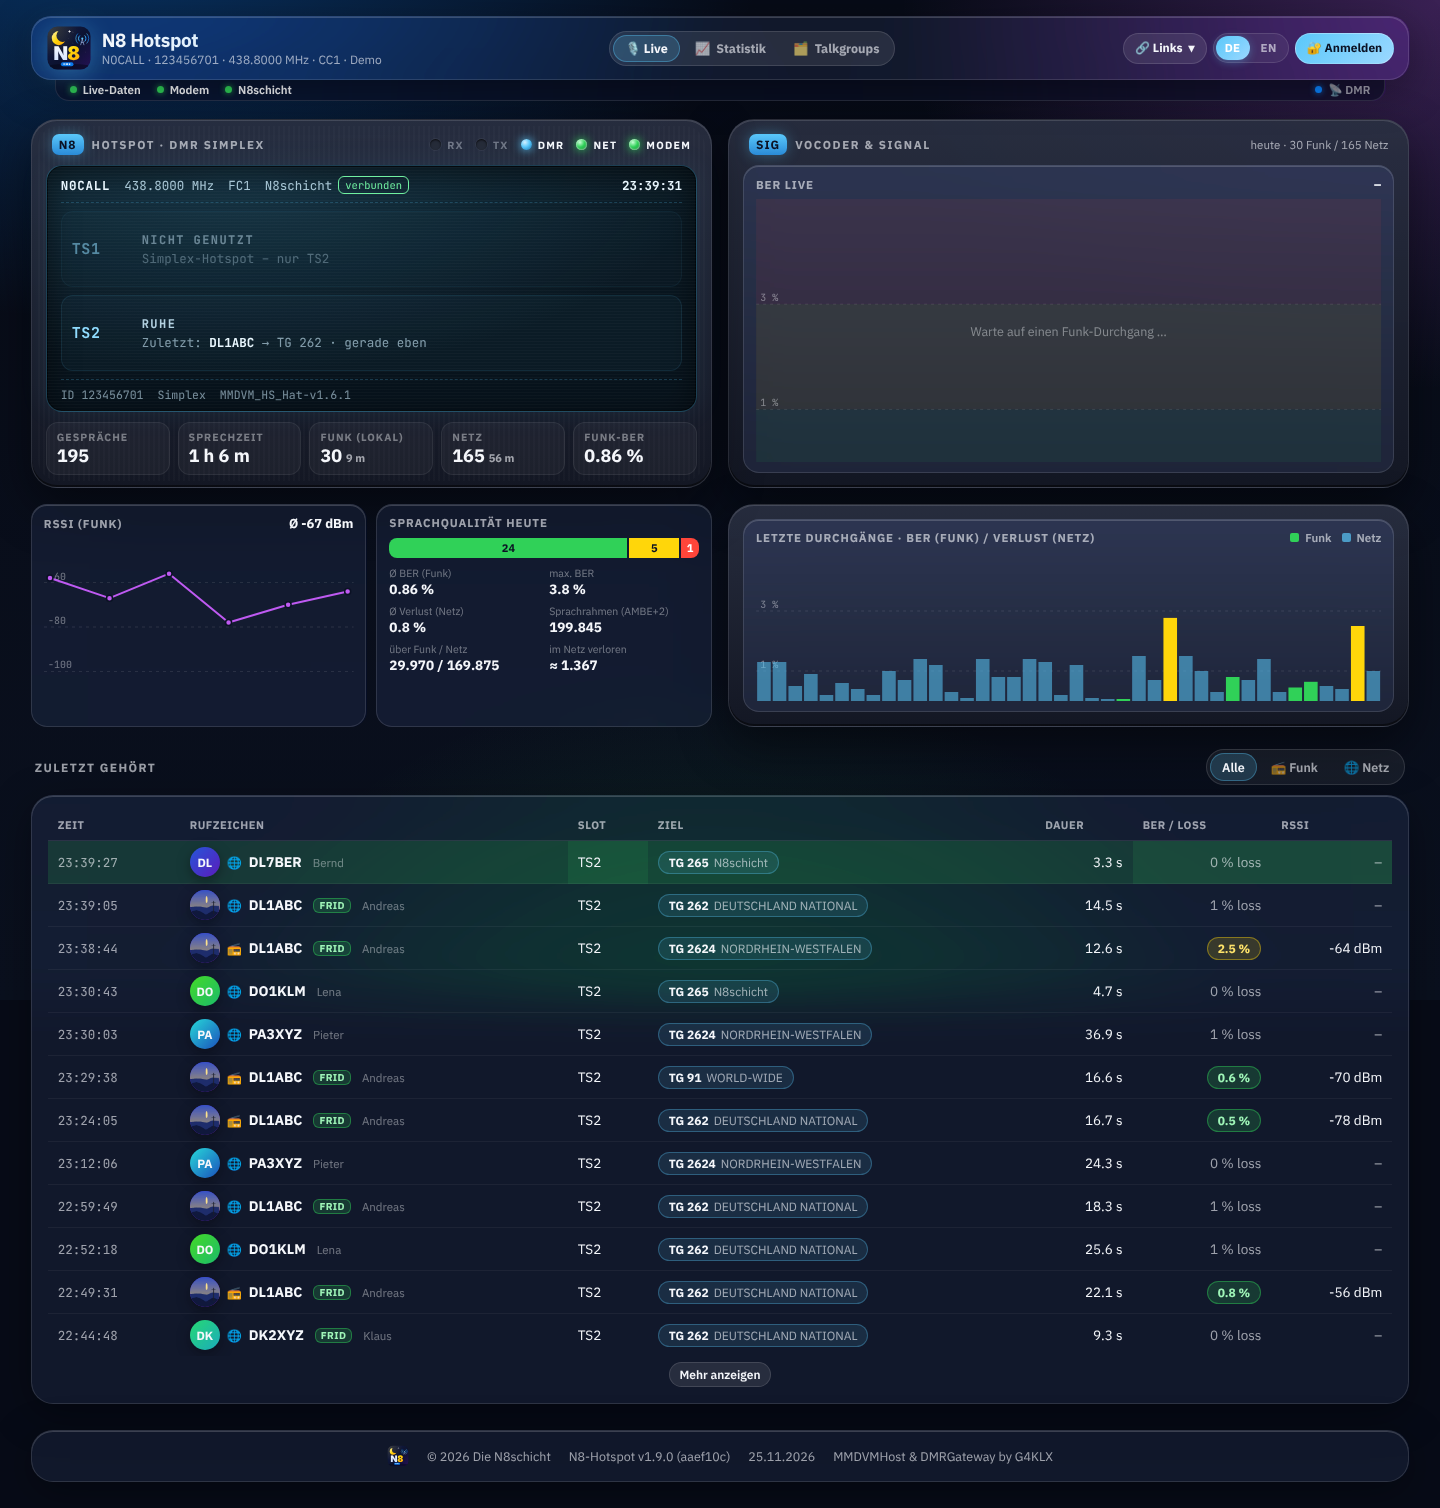
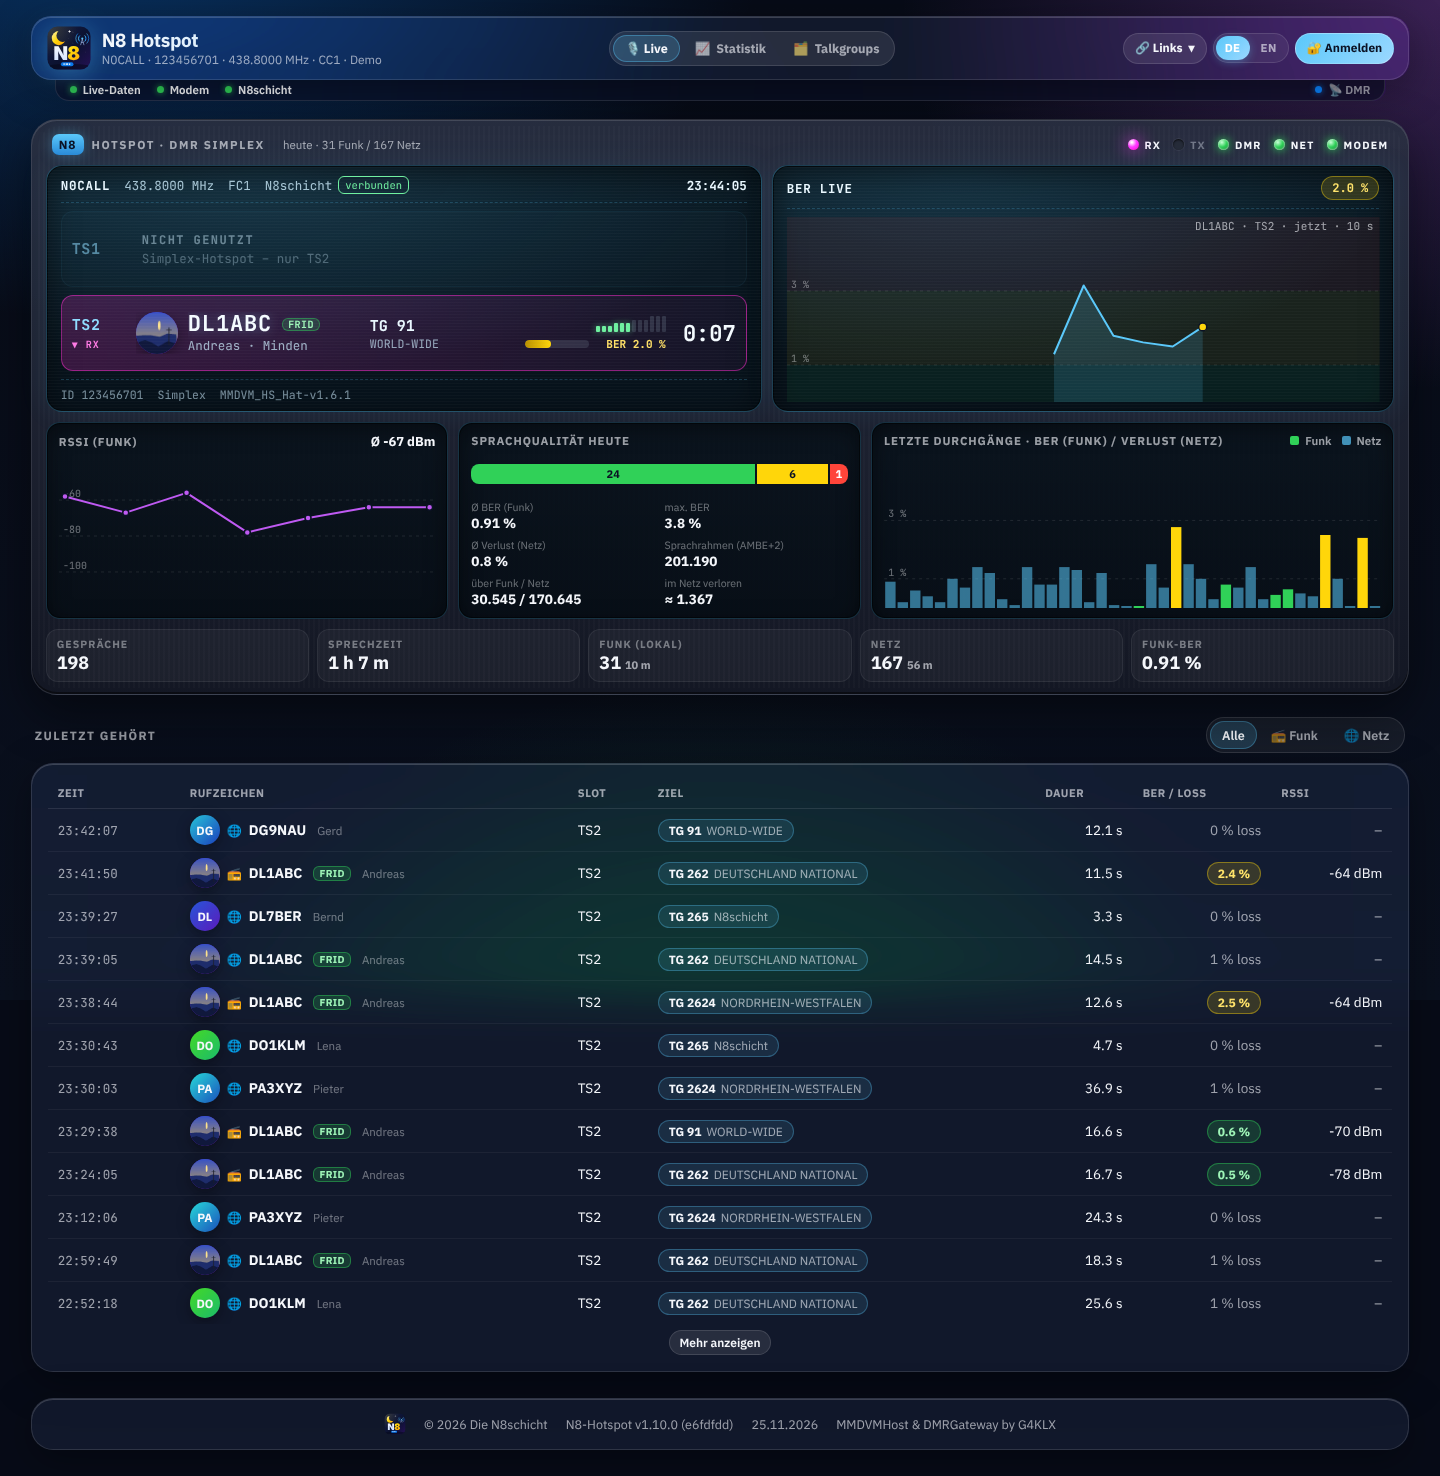
1.10.0: Grafen und Statistik im Funkgerät, LEDs RX Magenta / TX Rot / Dienst ok Grün
Claude-Session: https://claude.ai/code/session_01J5RG2njQDPpN1LJmv9Xn8d

diff --git a/static/app.css b/static/app.css
@@ -273,18 +273,7 @@ details.perm-ok summary { cursor: pointer; font-size: 13px; color: var(--muted, 
 /* =====================================================================================================
    Live view 1.5.0: the hotspot as a digital radio – LEDs, display with both time slots, signal & vocoder
    ===================================================================================================== */
-.live-grid { display: grid; grid-template-columns: minmax(0, 1fr) minmax(0, 1fr); grid-template-areas: "radio sig" "row recent";
-    gap: 16px; align-items: stretch; margin-top: 6px; }
-.live-grid > .radio { grid-area: radio; display: flex; flex-direction: column; }
-.live-grid > .sp-live { grid-area: sig; }
-.live-grid > .sig-row { grid-area: row; }
-.live-grid > .sp-recent { grid-area: recent; }
-.live-grid > .sig-row > .sig-card { display: flex; flex-direction: column; min-height: 210px; }
-.live-grid > .sig-row .sig-chart.sm { flex: 1; min-height: 120px; height: auto; }
-.live-grid > .sp-recent .sig-chart.tall { min-height: 150px; }
-/* the charts draw into the space they get – they never push the card bigger */
 .sig-chart > svg { position: absolute; inset: 0; width: 100%; height: 100%; }
-@media (max-width: 1060px) { .live-grid { grid-template-columns: 1fr; grid-template-areas: "radio" "sig" "row" "recent"; } }
 
 .radio { position: relative; border-radius: 26px; padding: 14px 14px 12px;
     background: linear-gradient(180deg, rgba(42, 48, 66, .92), rgba(20, 24, 36, .96));
@@ -307,6 +296,9 @@ details.perm-ok summary { cursor: pointer; font-size: 13px; color: var(--muted, 
 .led.on.g i { background: radial-gradient(circle at 35% 30%, #c9ffd6, #30d158 45%, #14802f); box-shadow: 0 0 10px #30d158, 0 0 2px #fff inset; }
 .led.on.r i { background: radial-gradient(circle at 35% 30%, #ffd1cc, #ff453a 45%, #a3150c); box-shadow: 0 0 12px #ff453a, 0 0 2px #fff inset; }
 .led.on.a i { background: radial-gradient(circle at 35% 30%, #fff3b8, #ffd60a 45%, #a98400); box-shadow: 0 0 10px #ffd60a; }
+.led.on.m i { background: radial-gradient(circle at 35% 30%, #ffd1f5, #ff2dd1 45%, #a3007f); box-shadow: 0 0 12px #ff2dd1, 0 0 2px #fff inset; }
+.led.on.m.pulse i { animation: ledpulse-m 1s ease-in-out infinite; }
+@keyframes ledpulse-m { 50% { filter: brightness(1.35); box-shadow: 0 0 18px #ff2dd1; } }
 .led.on.b i { background: radial-gradient(circle at 35% 30%, #d4f0ff, #5ac8fa 45%, #1b6fa8); box-shadow: 0 0 10px #5ac8fa; }
 .led.pulse i { animation: ledpulse 1s ease-in-out infinite; }
 .led.blink i { animation: ledblink 1.2s steps(2, start) infinite; }
@@ -333,9 +325,9 @@ details.perm-ok summary { cursor: pointer; font-size: 13px; color: var(--muted, 
     min-height: 66px; padding: 8px 10px; border-radius: 12px; background: rgba(90, 200, 250, .04); border: 1px solid rgba(90, 200, 250, .10); transition: background .25s, border-color .25s; }
 .lcd-slot .ts { font-family: var(--mono); font-weight: 800; font-size: 15px; color: #8fdcff; display: flex; flex-direction: column; gap: 3px; letter-spacing: .04em; }
 .lcd-slot .ts .dir { font-size: 10px; font-weight: 800; letter-spacing: .1em; }
-.lcd-slot.on.rf { background: linear-gradient(90deg, rgba(48, 209, 88, .20), rgba(48, 209, 88, .05)); border-color: rgba(48, 209, 88, .45); }
+.lcd-slot.on.rf { background: linear-gradient(90deg, rgba(255, 45, 209, .20), rgba(255, 45, 209, .05)); border-color: rgba(255, 45, 209, .5); }
 .lcd-slot.on.net { background: linear-gradient(90deg, rgba(255, 69, 58, .20), rgba(255, 69, 58, .05)); border-color: rgba(255, 69, 58, .45); }
-.lcd-slot.on.rf .dir { color: #6ff0a0; } .lcd-slot.on.net .dir { color: #ff8a80; }
+.lcd-slot.on.rf .dir { color: #ff7ae4; } .lcd-slot.on.net .dir { color: #ff8a80; }
 .lcd-slot.idle, .lcd-slot.unused { grid-template-columns: 58px minmax(0, 1fr); }
 .lcd-slot.unused { opacity: .45; min-height: 44px; }
 .lcd-idle { display: flex; flex-direction: column; gap: 2px; font-family: var(--mono); font-size: 12.5px; color: rgba(207, 239, 255, .6); }
@@ -438,4 +430,21 @@ details.perm-ok summary { cursor: pointer; font-size: 13px; color: var(--muted, 
 .lcd .lcd-slots { display: grid; grid-template-rows: 1fr 1fr; gap: 8px; flex: 1; }
 .lcd .lcd-slot { min-height: 76px; }
 .lcd .lcd-slot.unused { opacity: .55; }
-@media (min-width: 1800px) { .live-grid { gap: 20px; } .lcd .lcd-slot { min-height: 86px; } }
+@media (min-width: 1800px) { .lcd .lcd-slot { min-height: 86px; } }
+
+/* 1.10.0: one radio over the full width – display, BER live, instruments and today in the same device */
+.radio-wide { margin-top: 6px; display: flex; flex-direction: column; gap: 10px; }
+.radio-wide .radio-bar { padding-bottom: 0; }
+.rd-note { margin-left: 10px; font-size: 11.5px; }
+.rd-main { display: grid; grid-template-columns: minmax(0, 1.15fr) minmax(0, 1fr); gap: 10px; align-items: stretch; position: relative; }
+.rd-main > .lcd { display: flex; flex-direction: column; }
+.lcd-chart .sig-chart.tall { flex: 1; min-height: 170px; height: auto; margin-top: 8px; }
+.lcd-chart .lcd-clock { font-size: 14px; }
+.rd-inst { display: grid; grid-template-columns: minmax(0, 1fr) minmax(0, 1fr) minmax(0, 1.3fr); gap: 10px; position: relative; }
+.rd-inst .inst { display: flex; flex-direction: column; gap: 8px; min-width: 0; padding: 10px 12px; border-radius: 14px;
+    background: linear-gradient(180deg, rgba(8, 18, 27, .85), rgba(7, 14, 22, .92)); border: 1px solid rgba(90, 200, 250, .18);
+    box-shadow: inset 0 0 0 1px rgba(0, 0, 0, .5), inset 0 6px 22px rgba(0, 0, 0, .45); }
+.rd-inst .inst .sig-chart.sm { flex: 1; min-height: 120px; height: auto; }
+.radio-wide .radio-today { margin-top: 0; }
+@media (max-width: 1100px) { .rd-main { grid-template-columns: 1fr; } .rd-inst { grid-template-columns: 1fr 1fr; } .rd-inst .inst:last-child { grid-column: 1 / -1; } }
+@media (max-width: 600px) { .rd-inst { grid-template-columns: 1fr; } .rd-note { display: block; margin: 2px 0 0; } }

diff --git a/static/index.html b/static/index.html
@@ -64,11 +64,11 @@
 
     <!-- ================= LIVE ================= -->
     <section id="tab-live">
-        <!-- symmetric 2 × 2: radio | BER live, RSSI + voice quality | last calls – each row has the same height on both sides -->
-        <div class="live-grid">
-            <div class="radio" id="radio">
-                <div class="radio-bar">
-                    <div class="radio-brand"><span class="radio-badge">N8</span><span class="radio-model" id="rdModel">Hotspot · DMR</span></div>
+        <!-- the hotspot as one digital radio: LEDs, display with both time slots and BER live, instruments, today -->
+        <div class="radio radio-wide" id="radio">
+            <div class="radio-bar">
+                <div class="radio-brand"><span class="radio-badge">N8</span><span class="radio-model" id="rdModel">Hotspot · DMR</span>
+                    <small class="dim rd-note" id="sigNote"></small></div>
                     <div class="leds" role="status">
                         <span class="led" id="ledRx" title="Receiving from a radio (RF)"><i></i>RX</span>
                         <span class="led" id="ledTx" title="Transmitting to the radios (from the network)"><i></i>TX</span>
@@ -76,7 +76,8 @@
                         <span class="led" id="ledNet" title="Connection to the DMR server"><i></i>NET</span>
                         <span class="led" id="ledModem" title="Modem"><i></i>MODEM</span>
                     </div>
-                </div>
+            </div>
+            <div class="rd-main">
                 <div class="lcd">
                     <div class="lcd-top">
                         <span class="lcd-call" id="lcdCall">–</span>
@@ -88,6 +89,26 @@
                     <div class="lcd-slots" id="slots"></div>
                     <div class="lcd-bot" id="lcdBot">&nbsp;</div>
                 </div>
+                <div class="lcd lcd-chart" id="sigPanel">
+                    <div class="lcd-top"><span class="lcd-call">BER LIVE</span><span class="lcd-clock" id="sigBerNow">–</span></div>
+                    <div class="sig-chart tall" id="chBerLive"></div>
+                </div>
+            </div>
+            <div class="rd-inst">
+                <div class="inst">
+                    <div class="sig-head"><span>RSSI (RF)</span><b id="sigRssi">–</b></div>
+                    <div class="sig-chart sm" id="chRssi"></div>
+                </div>
+                <div class="inst">
+                    <div class="sig-head"><span>Voice quality today</span></div>
+                    <div class="qbar" id="qBar"></div>
+                    <div class="sig-kv" id="sigKv"></div>
+                </div>
+                <div class="inst">
+                    <div class="sig-head"><span>Last calls · BER (RF) / loss (network)</span><span class="legend-mini"><i class="lg rf"></i>RF <i class="lg net"></i>Network</span></div>
+                    <div class="sig-chart sm" id="chRecent"></div>
+                </div>
+            </div>
                 <div class="radio-today" id="today">
                     <span class="rt"><small>Calls</small><b id="sCalls">–</b></span>
                     <span class="rt"><small>Airtime</small><b id="sAir">–</b></span>
@@ -95,33 +116,6 @@
                     <span class="rt"><small>Network</small><b id="sNet">–</b></span>
                     <span class="rt"><small>RF BER</small><b id="sBer">–</b></span>
                 </div>
-            </div>
-            <!-- signal & vocoder: BER of the running call -->
-            <div class="sigpanel sp-live" id="sigPanel">
-                <div class="radio-bar sig-bar"><div class="radio-brand"><span class="radio-badge">SIG</span><span class="radio-model">Vocoder &amp; signal</span></div>
-                    <small class="dim" id="sigNote"></small></div>
-                <div class="sig-card">
-                    <div class="sig-head"><span>BER live</span><b id="sigBerNow">–</b></div>
-                    <div class="sig-chart tall" id="chBerLive"></div>
-                </div>
-            </div>
-            <div class="sig-row">
-                <div class="sig-card">
-                    <div class="sig-head"><span>RSSI (RF)</span><b id="sigRssi">–</b></div>
-                    <div class="sig-chart sm" id="chRssi"></div>
-                </div>
-                <div class="sig-card">
-                    <div class="sig-head"><span>Voice quality today</span></div>
-                    <div class="qbar" id="qBar"></div>
-                    <div class="sig-kv" id="sigKv"></div>
-                </div>
-            </div>
-            <div class="sigpanel sp-recent">
-                <div class="sig-card">
-                    <div class="sig-head"><span>Last calls · BER (RF) / loss (network)</span><span class="legend-mini"><i class="lg rf"></i>RF <i class="lg net"></i>Network</span></div>
-                    <div class="sig-chart tall" id="chRecent"></div>
-                </div>
-            </div>
         </div>
 
         <h2 class="section-header">Last heard <span class="seg" id="lhFilter" style="margin-left: auto">

diff --git a/static/app.js b/static/app.js
@@ -261,10 +261,10 @@ function renderChips() {
 function renderLeds() {
     const L = S.live || {}, svc = L.services || {}, act = Object.values(L.slots || {}).filter(Boolean);
     const led = (id, cls, label) => { const e = $(id); if (!e) return; e.className = 'led ' + cls; if (label != null) { const b = e.querySelector('b'); if (b) b.textContent = label; } };
-    led('ledRx', act.some(c => c.source === 'rf') ? 'on g pulse' : '');
+    led('ledRx', act.some(c => c.source === 'rf') ? 'on m pulse' : '');      // N8-LEDs: RX Magenta · TX Rot · Dienst ok Grün
     led('ledTx', act.some(c => c.source !== 'rf') ? 'on r' : '');
     const mode = svc.mmdvmhost && svc.mmdvmhost !== 'active' ? 'Stopped' : (L.mode || 'Idle');
-    led('ledMode', mode === 'DMR' ? 'on b' : mode === 'Lockout' ? 'on a blink' : ['Error', 'Stopped'].includes(mode) ? 'on r' : 'dim', mode === 'Idle' ? 'IDLE' : mode.toUpperCase());
+    led('ledMode', mode === 'DMR' ? 'on g' : mode === 'Lockout' ? 'on a blink' : ['Error', 'Stopped'].includes(mode) ? 'on r' : 'dim', mode === 'Idle' ? 'IDLE' : mode.toUpperCase());
     const ln = L.link || {}, net = S.info && S.info.network;
     led('ledNet', !net ? '' : svc.dmrgateway && svc.dmrgateway !== 'active' ? 'on r' : ln.state === 'connected' ? 'on g' : ln.state === 'failed' ? 'on r' : 'on a blink');
     led('ledModem', svc.mmdvmhost && svc.mmdvmhost !== 'active' ? 'on r' : L.modem && L.modem.open === true ? 'on g' : L.modem && L.modem.open === false ? 'on r' : 'on a blink');
@@ -376,7 +376,7 @@ const svgNS = 'http://www.w3.org/2000/svg';
 function svgEl(w, h, inner) { return `<svg viewBox="0 0 ${w} ${h}" width="${w}" height="${h}" class="sig-svg" role="img">${inner}</svg>`; }
 function boxSize(el, h) { return [Math.max(200, Math.round(el.clientWidth || 600)), Math.max(40, Math.round(el.clientHeight || h))]; }
 if (window.ResizeObserver) new ResizeObserver(() => { clearTimeout(S.sigRo); S.sigRo = setTimeout(() => { if (S.sig.data) renderSignal(); }, 120); })
-    .observe(document.querySelector('.live-grid') || document.getElementById('sigPanel'));
+    .observe(document.getElementById('radio'));
 window.addEventListener('resize', () => { clearTimeout(S.sigRz); S.sigRz = setTimeout(() => { if (S.sig.data) renderSignal(); }, 200); });
 function zoneBands(W, H, max) {   // green < 1 %, amber 1–3 %, red above (BER)
     const y = v => H - Math.min(v, max) / max * H;

diff --git a/CHANGELOG.md b/CHANGELOG.md
@@ -4,6 +4,19 @@ Alle Versionen von **N8-Hotspot** (DMR Die N8schicht), die neueste oben.
 Die Nummern folgen [Semantic Versioning](https://semver.org/lang/de/): `MAJOR.MINOR.PATCH`.
 Wie Versionen und Updates funktionieren, steht in [docs/de/updates.md](docs/de/updates.md).
 
+## [1.10.0] – 2026-11-25
+
+### 📻 Grafen und Statistik im Funkgerät
+- Die Live-Ansicht ist jetzt **ein einziges Funkgerät über die ganze Browserbreite**: Kopfleiste mit Modell, Tageszahlen und LEDs; darunter
+  zwei Displays nebeneinander – **TS1/TS2** (gleich hoch) und **BER live** als zweites Display im selben Stil –; darunter drei
+  eingebaute Instrumente **RSSI (Funk)**, **Sprachqualität heute** und **Letzte Durchgänge (BER/Verlust)**; ganz unten die
+  Tagesstatistik (Gespräche, Sprechzeit, Funk lokal, Netz, Funk-BER).
+- Alle Blöcke einer Reihe gleich hoch; die Grafiken füllen ihren Platz. Bis 1100 px Breite stehen die Displays untereinander und die
+  Instrumente 2 + 1, auf dem Handy alles untereinander.
+- **LED-Farben wie in allen N8-Systemen:** RX **Magenta**, TX **Rot**, Dienst ok **Grün** – die RX-LED und ein empfangender Slot
+  (▼ RX) leuchten jetzt magenta statt grün, die Betriebsart-LED (DMR) grün statt blau; NET und MODEM bleiben grün bei ok.
+- Screenshots *live.png* und *live-mobile.png* neu.
+
 ## [1.9.1] – 2026-11-25
 
 ### 📐 Live-Ansicht symmetrisch
